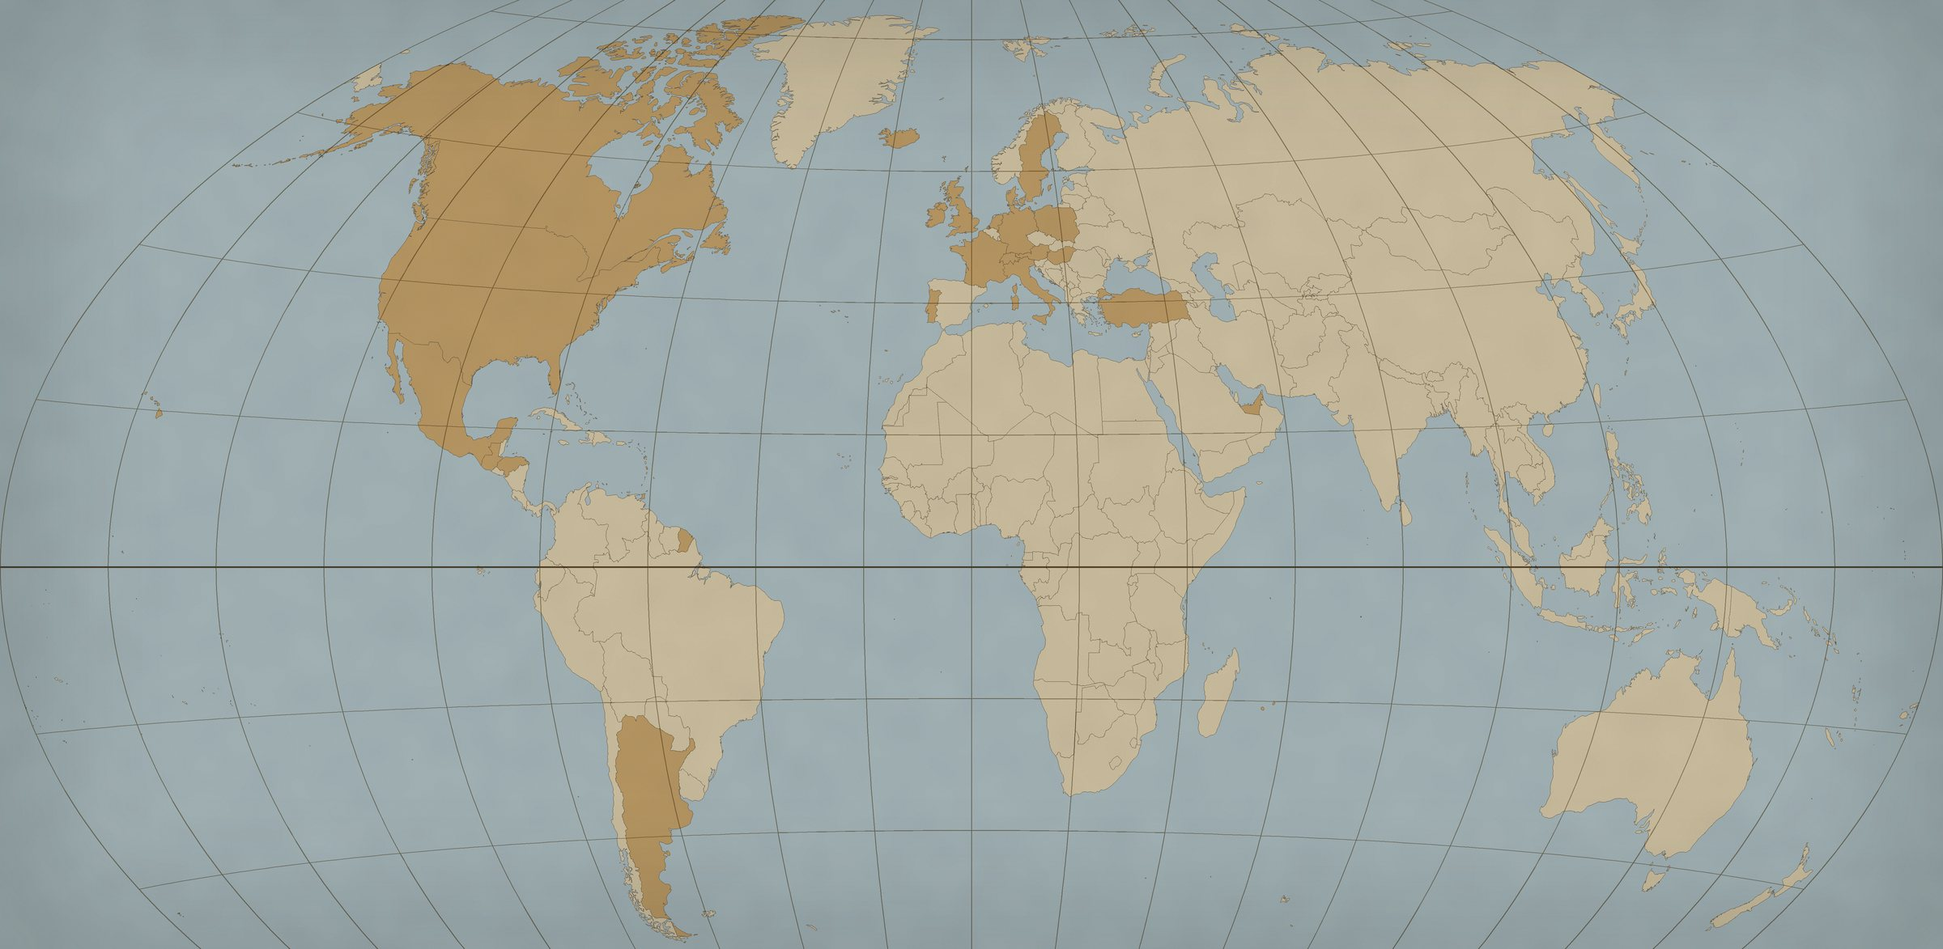
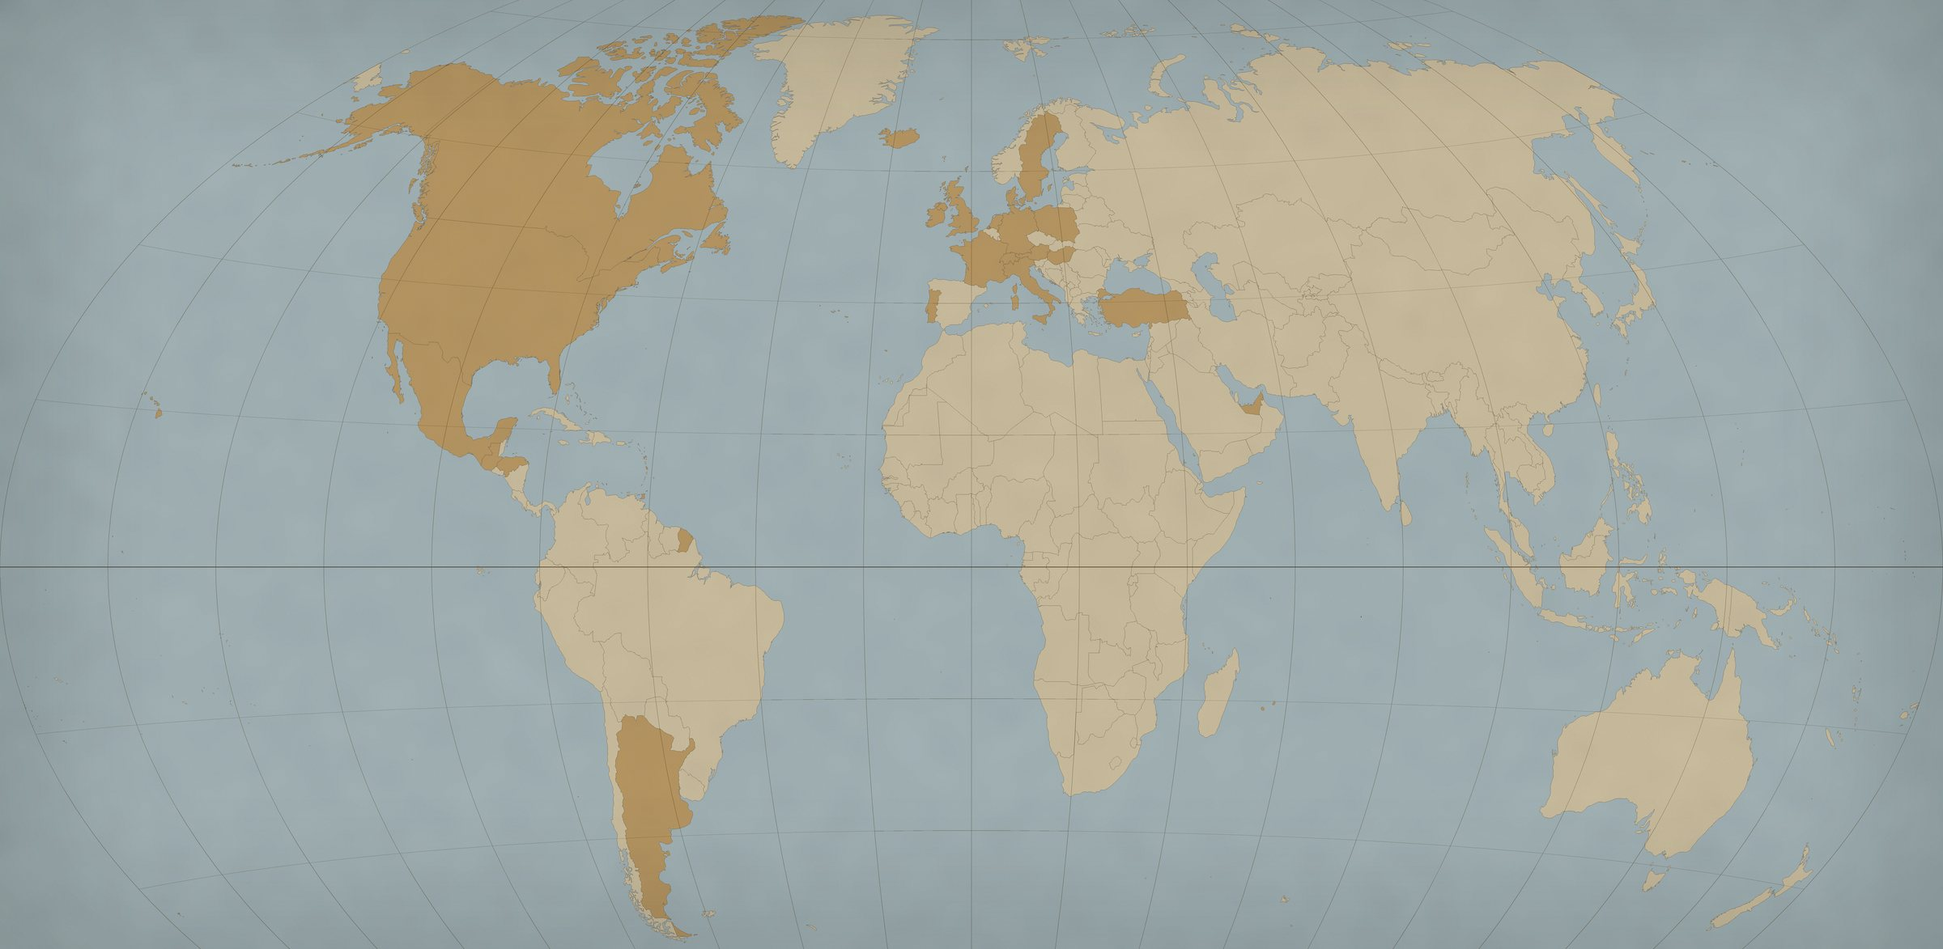
Sharpen the map at zoom, and name the country on the pin
Zooming was mushy because the sheet is 2400px wide and shown at about
1146 CSS px, so anything past roughly 2x was magnified JPEG rather than map.

There is now a 6000px sheet, fetched only when the reader first zooms past
1.2x and swapped in once it has decoded. The page still opens on the small
sheet, so anyone who only looks at the world view never pays the 713KB.
srcset has to be removed at swap time or it outranks src and the swap does
nothing. MAX zoom drops from 7 to 5, which is roughly where the detail sheet
stops having more to give.

Geometry is now drawn once at 6000px and downsampled to 2400 and 1200, with
the paper grain applied separately at each size so it is not smoothed away.
Pin positions shift by under 0.03% of the sheet, well inside a pixel.

Pins carry the country name, shown on hover, on keyboard focus, and on the
selected pin, which is how it works on a phone where there is no hover. The
name goes in via textContent, not innerHTML, so "Trinidad & Tobago" is not
an HTML entity waiting to happen. A labelled pin lifts above its neighbours
or the tag gets sliced by the pin next to it.

Also added all three sheets to stamp-assets.py. They are regenerated every
time a country is added, so without a content hash a cached sheet would show
last week's tints.

diff --git a/js/travel-map.js b/js/travel-map.js
@@ -12,41 +12,44 @@
 
     // <countries>  regenerate with: python3 bin/build-travel-map.py
     var COUNTRIES = [
-  {"code": "US", "name": "United States", "region": "Americas", "x": 28.004, "y": 34.129, "cities": 81, "regions": 18, "top": ["Hillsborough County", "North Franklin Township", "Robinson Township", "Charlotte", "Orange County", "Lakeland"]},
-  {"code": "GT", "name": "Guatemala", "region": "Americas", "x": 25.072, "y": 48.995, "cities": 8, "regions": 0, "top": ["San Andrés Semetabaj", "Mixco", "Santa Cruz Muluá", "San Juan Bautista", "Zaragoza", "Fray Bartolomé de las Casas"]},
-  {"code": "CA", "name": "Canada", "region": "Americas", "x": 33.254, "y": 23.987, "cities": 5, "regions": 0, "top": ["Victoria", "Mississauga", "Rivière-Koksoak", "Bridgewater"]},
-  {"code": "HN", "name": "Honduras", "region": "Americas", "x": 25.972, "y": 48.675, "cities": 4, "regions": 0, "top": ["El Progreso", "Santa Cruz de Yojoa", "El Rosario", "La Lima"]},
-  {"code": "MX", "name": "Mexico", "region": "Americas", "x": 23.976, "y": 46.407, "cities": 3, "regions": 0, "top": ["San Cristóbal", "Tuxtla Gutiérrez", "Ciudad de México"]},
-  {"code": "AR", "name": "Argentina", "region": "Americas", "x": 35.061, "y": 84.229, "cities": 2, "regions": 0, "top": ["Buenos Aires", "Mar del Plata"]},
-  {"code": "TT", "name": "Trinidad & Tobago", "region": "Americas", "x": 33.049, "y": 52.346, "cities": 2, "regions": 0, "top": []},
-  {"code": "IT", "name": "Italy", "region": "Europe", "x": 52.865, "y": 30.473, "cities": 13, "regions": 0, "top": ["San Felice sul Panaro", "Torino", "Bologna", "Roma", "Lucca", "Venezia"]},
-  {"code": "AT", "name": "Austria", "region": "Europe", "x": 53.329, "y": 26.483, "cities": 10, "regions": 0, "top": ["Eben am Achensee", "Wien", "Hallwang", "Parndorf/Pandrof", "Michelhausen", "Asten"]},
-  {"code": "DE", "name": "Germany", "region": "Europe", "x": 52.429, "y": 25.737, "cities": 10, "regions": 0, "top": ["Oberding", "Frankfurt am Main", "Bad Wiessee", "Teisendorf", "Prien am Chiemsee", "Saulheim"]},
-  {"code": "HU", "name": "Hungary", "region": "Europe", "x": 54.313, "y": 26.727, "cities": 10, "regions": 0, "top": ["Budapest", "Balatonfüred", "Sárszentmihály", "Velence", "Komárom", "Monori járás"]},
-  {"code": "SE", "name": "Sweden", "region": "Europe", "x": 53.39, "y": 19.597, "cities": 10, "regions": 0, "top": ["Stockholm", "Sigtuna kommun", "Malmö", "Norrköping", "Linköping", "Hässleholms kommun"]},
-  {"code": "GB", "name": "United Kingdom", "region": "Europe", "x": 49.298, "y": 22.576, "cities": 9, "regions": 0, "top": ["Greater London", "Belfast", "Reading", "Ayrshire", "Mid and East Antrim District", "South Ayrshire"]},
-  {"code": "FR", "name": "France", "region": "Europe", "x": 50.533, "y": 25.123, "cities": 7, "regions": 0, "top": ["Paris", "Tillé", "Seclin", "Peuplingues", "Bornel", "Vémars"]},
-  {"code": "DK", "name": "Denmark", "region": "Europe", "x": 52.748, "y": 20.952, "cities": 3, "regions": 0, "top": ["København", "Hillerød Kommune", "Køge Kommune"]},
-  {"code": "NL", "name": "Netherlands", "region": "Europe", "x": 51.086, "y": 23.371, "cities": 3, "regions": 0, "top": ["Hoofddorp", "Amsterdam", "Oosthuizen"]},
-  {"code": "TR", "name": "Turkey", "region": "Europe", "x": 57.179, "y": 31.059, "cities": 3, "regions": 0, "top": ["Arnavutköy", "Pendik", "Istanbul"]},
-  {"code": "CH", "name": "Switzerland", "region": "Europe", "x": 52.144, "y": 27.762, "cities": 2, "regions": 0, "top": ["Lugano", "Ascona"]},
-  {"code": "IS", "name": "Iceland", "region": "Europe", "x": 45.469, "y": 15.202, "cities": 1, "regions": 0, "top": ["Suðurnesjabær"]},
-  {"code": "IE", "name": "Ireland", "region": "Europe", "x": 48.588, "y": 22.667, "cities": 1, "regions": 0, "top": ["Dublin"]},
-  {"code": "MC", "name": "Monaco", "region": "Europe", "x": 51.807, "y": 29.34, "cities": 1, "regions": 0, "top": ["Monte Carlo"]},
-  {"code": "PL", "name": "Poland", "region": "Europe", "x": 54.784, "y": 23.375, "cities": 1, "regions": 0, "top": ["Warsaw"]},
-  {"code": "PT", "name": "Portugal", "region": "Europe", "x": 47.708, "y": 32.786, "cities": 1, "regions": 0, "top": ["Lisboa"]},
-  {"code": "AE", "name": "United Arab Emirates", "region": "Middle East", "x": 64.717, "y": 41.889, "cities": 1, "regions": 0, "top": ["Dubai"]},
-  {"code": "MU", "name": "Mauritius", "region": "Africa", "x": 65.557, "y": 74.102, "cities": 0, "regions": 0, "top": []}
+  {"code": "US", "name": "United States", "region": "Americas", "x": 28.004, "y": 34.119, "cities": 81, "regions": 18, "top": ["Hillsborough County", "North Franklin Township", "Robinson Township", "Charlotte", "Orange County", "Lakeland"]},
+  {"code": "GT", "name": "Guatemala", "region": "Americas", "x": 25.072, "y": 48.981, "cities": 8, "regions": 0, "top": ["San Andrés Semetabaj", "Mixco", "Santa Cruz Muluá", "San Juan Bautista", "Zaragoza", "Fray Bartolomé de las Casas"]},
+  {"code": "CA", "name": "Canada", "region": "Americas", "x": 33.254, "y": 23.98, "cities": 5, "regions": 0, "top": ["Victoria", "Mississauga", "Rivière-Koksoak", "Bridgewater"]},
+  {"code": "HN", "name": "Honduras", "region": "Americas", "x": 25.972, "y": 48.661, "cities": 4, "regions": 0, "top": ["El Progreso", "Santa Cruz de Yojoa", "El Rosario", "La Lima"]},
+  {"code": "MX", "name": "Mexico", "region": "Americas", "x": 23.976, "y": 46.394, "cities": 3, "regions": 0, "top": ["San Cristóbal", "Tuxtla Gutiérrez", "Ciudad de México"]},
+  {"code": "AR", "name": "Argentina", "region": "Americas", "x": 35.061, "y": 84.205, "cities": 2, "regions": 0, "top": ["Buenos Aires", "Mar del Plata"]},
+  {"code": "TT", "name": "Trinidad & Tobago", "region": "Americas", "x": 33.049, "y": 52.331, "cities": 2, "regions": 0, "top": []},
+  {"code": "IT", "name": "Italy", "region": "Europe", "x": 52.865, "y": 30.464, "cities": 13, "regions": 0, "top": ["San Felice sul Panaro", "Torino", "Bologna", "Roma", "Lucca", "Venezia"]},
+  {"code": "AT", "name": "Austria", "region": "Europe", "x": 53.329, "y": 26.475, "cities": 10, "regions": 0, "top": ["Eben am Achensee", "Wien", "Hallwang", "Parndorf/Pandrof", "Michelhausen", "Asten"]},
+  {"code": "DE", "name": "Germany", "region": "Europe", "x": 52.429, "y": 25.73, "cities": 10, "regions": 0, "top": ["Oberding", "Frankfurt am Main", "Bad Wiessee", "Teisendorf", "Prien am Chiemsee", "Saulheim"]},
+  {"code": "HU", "name": "Hungary", "region": "Europe", "x": 54.313, "y": 26.719, "cities": 10, "regions": 0, "top": ["Budapest", "Balatonfüred", "Sárszentmihály", "Velence", "Komárom", "Monori járás"]},
+  {"code": "SE", "name": "Sweden", "region": "Europe", "x": 53.39, "y": 19.591, "cities": 10, "regions": 0, "top": ["Stockholm", "Sigtuna kommun", "Malmö", "Norrköping", "Linköping", "Hässleholms kommun"]},
+  {"code": "GB", "name": "United Kingdom", "region": "Europe", "x": 49.298, "y": 22.569, "cities": 9, "regions": 0, "top": ["Greater London", "Belfast", "Reading", "Ayrshire", "Mid and East Antrim District", "South Ayrshire"]},
+  {"code": "FR", "name": "France", "region": "Europe", "x": 50.533, "y": 25.115, "cities": 7, "regions": 0, "top": ["Paris", "Tillé", "Seclin", "Peuplingues", "Bornel", "Vémars"]},
+  {"code": "DK", "name": "Denmark", "region": "Europe", "x": 52.748, "y": 20.945, "cities": 3, "regions": 0, "top": ["København", "Hillerød Kommune", "Køge Kommune"]},
+  {"code": "NL", "name": "Netherlands", "region": "Europe", "x": 51.086, "y": 23.364, "cities": 3, "regions": 0, "top": ["Hoofddorp", "Amsterdam", "Oosthuizen"]},
+  {"code": "TR", "name": "Turkey", "region": "Europe", "x": 57.179, "y": 31.049, "cities": 3, "regions": 0, "top": ["Arnavutköy", "Pendik", "Istanbul"]},
+  {"code": "CH", "name": "Switzerland", "region": "Europe", "x": 52.144, "y": 27.754, "cities": 2, "regions": 0, "top": ["Lugano", "Ascona"]},
+  {"code": "IS", "name": "Iceland", "region": "Europe", "x": 45.469, "y": 15.197, "cities": 1, "regions": 0, "top": ["Suðurnesjabær"]},
+  {"code": "IE", "name": "Ireland", "region": "Europe", "x": 48.588, "y": 22.66, "cities": 1, "regions": 0, "top": ["Dublin"]},
+  {"code": "MC", "name": "Monaco", "region": "Europe", "x": 51.807, "y": 29.331, "cities": 1, "regions": 0, "top": ["Monte Carlo"]},
+  {"code": "PL", "name": "Poland", "region": "Europe", "x": 54.784, "y": 23.368, "cities": 1, "regions": 0, "top": ["Warsaw"]},
+  {"code": "PT", "name": "Portugal", "region": "Europe", "x": 47.708, "y": 32.776, "cities": 1, "regions": 0, "top": ["Lisboa"]},
+  {"code": "AE", "name": "United Arab Emirates", "region": "Middle East", "x": 64.717, "y": 41.877, "cities": 1, "regions": 0, "top": ["Dubai"]},
+  {"code": "MU", "name": "Mauritius", "region": "Africa", "x": 65.557, "y": 74.081, "cities": 0, "regions": 0, "top": []}
 ];
     // </countries>
 
-    var MIN = 1, MAX = 7;
+    // MAX is capped at what the detail sheet can actually resolve; going
+    // further only magnifies JPEG, it does not add map.
+    var MIN = 1, MAX = 5;
     var vp = document.getElementById('wm-viewport');
     if (!vp) return;
     var canvas = document.getElementById('wm-canvas');
     var panel  = document.getElementById('wm-panel');
     var list   = document.getElementById('wm-list');
     var reset  = document.getElementById('wm-reset');
+    var sheet  = document.getElementById('wm-sheet');
 
     // baseScale is the resting zoom: 1 on a desktop, but on a phone the frame
     // is taller than the sheet, so the map rests zoomed in far enough to fill
@@ -65,6 +68,10 @@
         b.style.top  = c.y + '%';
         b.setAttribute('aria-label', c.name);
         b.innerHTML = '<span class="wm-pin-needle"></span><span class="wm-pin-head"></span>';
+        var tag = document.createElement('span');
+        tag.className = 'wm-pin-label';
+        tag.textContent = c.name;      // textContent, so "Trinidad & Tobago" is safe
+        b.appendChild(tag);
         b.addEventListener('click', function (e) { e.stopPropagation(); select(c, true); });
         canvas.appendChild(b);
         pinEls[c.code] = b;
@@ -91,6 +98,27 @@
         list.appendChild(row);
     });
 
+    // ── detail sheet ──
+    // The page opens on a 2400px sheet, which is plenty at resting zoom and
+    // costs ~190KB. Zooming past that turns it to mush, so the first time the
+    // reader zooms in, fetch the 6000px version and swap it in once it has
+    // decoded. Nobody who only looks at the world view ever pays for it.
+    var detailSrc = sheet.getAttribute('data-detail');
+    var detailAsked = false;
+
+    function loadDetail() {
+        if (detailAsked || !detailSrc) return;
+        detailAsked = true;
+        var pre = new Image();
+        pre.onload = function () {
+            // srcset outranks src, so it has to go or the swap does nothing
+            sheet.removeAttribute('srcset');
+            sheet.removeAttribute('sizes');
+            sheet.src = detailSrc;
+        };
+        pre.src = detailSrc;
+    }
+
     // ── transform ──
     function clamp(v, lo, hi) { return v < lo ? lo : v > hi ? hi : v; }
 
@@ -108,6 +136,7 @@
         // scale. At rest touch-action stays pan-y so a thumb dragged up the
         // screen scrolls the page instead of being swallowed by the map.
         vp.classList.toggle('is-zoomed', scale > baseScale * 1.01);
+        if (scale > baseScale * 1.2) loadDetail();
     }
 
     function pannable() {

diff --git a/travel-map.html b/travel-map.html
@@ -21,7 +21,7 @@
     <link rel="preconnect" href="https://fonts.gstatic.com" crossorigin>
     <link rel="preload" as="style" href="https://fonts.googleapis.com/css2?family=Lora:wght@400;500;600;700&family=Open+Sans:wght@300;400;500;600;700&display=swap" onload="this.onload=null;this.rel='stylesheet'">
     <noscript><link rel="stylesheet" href="https://fonts.googleapis.com/css2?family=Lora:wght@400;500;600;700&family=Open+Sans:wght@300;400;500;600;700&display=swap"></noscript>
-    <link rel="stylesheet" href="css/style.css?v=16f787d0bd">
+    <link rel="stylesheet" href="css/style.css?v=86a2e0f0d5">
     <link rel="icon" href="/favicon.ico" type="image/x-icon">
 </head>
 <body>
@@ -69,8 +69,9 @@
             <div class="wm-viewport" id="wm-viewport">
                 <div class="wm-canvas" id="wm-canvas">
                     <img class="wm-sheet" id="wm-sheet"
-                         src="assets/travel/world-map-1200.jpg"
-                         srcset="assets/travel/world-map-1200.jpg 1200w, assets/travel/world-map-2400.jpg 2400w"
+                         src="assets/travel/world-map-1200.jpg?v=a72eafc5f5"
+                         data-detail="assets/travel/world-map-6000.jpg?v=38ff10aa5c"
+                         srcset="assets/travel/world-map-1200.jpg?v=a72eafc5f5 1200w, assets/travel/world-map-2400.jpg?v=3688f706c5 2400w"
                          sizes="(max-width: 1220px) 100vw, 1146px"
                          width="2400" height="1173"
                          alt="An antique world map with a push pin in each of the 25 countries Alfano Ministries has carried the Gospel to">
@@ -149,7 +150,7 @@
     </footer>
 
     <script src="js/main.js?v=289c1d07eb" defer></script>
-    <script src="js/travel-map.js?v=2818a63c81" defer></script>
+    <script src="js/travel-map.js?v=d1cc5465d3" defer></script>
     <!-- GHL Chat Widget -->
     <script src="https://widgets.leadconnectorhq.com/loader.js" data-resources-url="https://widgets.leadconnectorhq.com/chat-widget/loader.js" data-widget-id="6a05e884f127bb1bb0a44a06" data-source="WEB_USER"></script>
 </body>

diff --git a/css/style.css b/css/style.css
@@ -3035,6 +3035,37 @@ chat-widget {
 
 .wm-pin:focus-visible { outline: 2px solid var(--gold); outline-offset: 2px; }
 
+/* the country name, on hover and on the selected pin */
+.wm-pin-label {
+    position: absolute;
+    left: 50%;
+    bottom: 30px;
+    transform: translateX(-50%);
+    padding: 3px 9px;
+    border-radius: 5px;
+    background: rgba(21, 44, 73, 0.95);
+    color: var(--cream);
+    font-family: inherit;
+    font-size: 11px;
+    font-weight: 600;
+    line-height: 1.4;
+    letter-spacing: 0.02em;
+    white-space: nowrap;
+    opacity: 0;
+    pointer-events: none;
+    box-shadow: 0 2px 6px rgba(0, 0, 0, 0.4);
+    transition: opacity 0.14s ease;
+}
+
+.wm-pin:hover .wm-pin-label,
+.wm-pin:focus-visible .wm-pin-label,
+.wm-pin.is-active .wm-pin-label { opacity: 1; }
+
+/* a labelled pin has to sit above its neighbours or the tag is cut in half */
+.wm-pin:hover,
+.wm-pin:focus-visible,
+.wm-pin.is-active { z-index: 5; }
+
 /* ── controls ── */
 .wm-controls {
     position: absolute;

diff --git a/listen-go.html b/listen-go.html
@@ -18,7 +18,7 @@
     <link rel="preconnect" href="https://fonts.gstatic.com" crossorigin>
     <link rel="preload" as="style" href="https://fonts.googleapis.com/css2?family=Lora:wght@400;500;600;700&amp;family=Open+Sans:wght@300;400;500;600;700&amp;display=swap" onload="this.onload=null;this.rel='stylesheet'">
     <noscript><link rel="stylesheet" href="https://fonts.googleapis.com/css2?family=Lora:wght@400;500;600;700&amp;family=Open+Sans:wght@300;400;500;600;700&amp;display=swap"></noscript>
-    <link rel="stylesheet" href="css/style.css?v=16f787d0bd">
+    <link rel="stylesheet" href="css/style.css?v=86a2e0f0d5">
     <link rel="icon" href="/favicon.ico" type="image/x-icon">
     <style>
         .listen-wrap { max-width: 780px; margin: 0 auto; text-align: center; }

diff --git a/listen-wiser.html b/listen-wiser.html
@@ -18,7 +18,7 @@
     <link rel="preconnect" href="https://fonts.gstatic.com" crossorigin>
     <link rel="preload" as="style" href="https://fonts.googleapis.com/css2?family=Lora:wght@400;500;600;700&amp;family=Open+Sans:wght@300;400;500;600;700&amp;display=swap" onload="this.onload=null;this.rel='stylesheet'">
     <noscript><link rel="stylesheet" href="https://fonts.googleapis.com/css2?family=Lora:wght@400;500;600;700&amp;family=Open+Sans:wght@300;400;500;600;700&amp;display=swap"></noscript>
-    <link rel="stylesheet" href="css/style.css?v=16f787d0bd">
+    <link rel="stylesheet" href="css/style.css?v=86a2e0f0d5">
     <link rel="icon" href="/favicon.ico" type="image/x-icon">
     <style>
         .listen-wrap { max-width: 780px; margin: 0 auto; text-align: center; }

diff --git a/listen.html b/listen.html
@@ -18,7 +18,7 @@
     <link rel="preconnect" href="https://fonts.gstatic.com" crossorigin>
     <link rel="preload" as="style" href="https://fonts.googleapis.com/css2?family=Lora:wght@400;500;600;700&amp;family=Open+Sans:wght@300;400;500;600;700&amp;display=swap" onload="this.onload=null;this.rel='stylesheet'">
     <noscript><link rel="stylesheet" href="https://fonts.googleapis.com/css2?family=Lora:wght@400;500;600;700&amp;family=Open+Sans:wght@300;400;500;600;700&amp;display=swap"></noscript>
-    <link rel="stylesheet" href="css/style.css?v=16f787d0bd">
+    <link rel="stylesheet" href="css/style.css?v=86a2e0f0d5">
     <link rel="icon" href="/favicon.ico" type="image/x-icon">
     <style>
         .listen-wrap { max-width: 780px; margin: 0 auto; text-align: center; }

diff --git a/library.html b/library.html
@@ -19,7 +19,7 @@
     <link rel="preconnect" href="https://fonts.gstatic.com" crossorigin>
     <link rel="preload" as="style" href="https://fonts.googleapis.com/css2?family=Lora:wght@400;500;600;700&amp;family=Open+Sans:wght@300;400;500;600;700&amp;display=swap" onload="this.onload=null;this.rel='stylesheet'">
     <noscript><link rel="stylesheet" href="https://fonts.googleapis.com/css2?family=Lora:wght@400;500;600;700&amp;family=Open+Sans:wght@300;400;500;600;700&amp;display=swap"></noscript>
-    <link rel="stylesheet" href="css/style.css?v=16f787d0bd">
+    <link rel="stylesheet" href="css/style.css?v=86a2e0f0d5">
     <link rel="icon" href="/favicon.ico" type="image/x-icon">
     <style>
         .library-wrap { max-width: 900px; margin: 0 auto; }

diff --git a/index.html b/index.html
@@ -21,7 +21,7 @@
     <link rel="preconnect" href="https://fonts.gstatic.com" crossorigin>
     <link rel="preload" as="style" href="https://fonts.googleapis.com/css2?family=Lora:wght@400;500;600;700&family=Open+Sans:wght@300;400;500;600;700&display=swap" onload="this.onload=null;this.rel='stylesheet'">
     <noscript><link rel="stylesheet" href="https://fonts.googleapis.com/css2?family=Lora:wght@400;500;600;700&family=Open+Sans:wght@300;400;500;600;700&display=swap"></noscript>
-    <link rel="stylesheet" href="css/style.css?v=16f787d0bd">
+    <link rel="stylesheet" href="css/style.css?v=86a2e0f0d5">
     <link rel="icon" href="/favicon.ico" type="image/x-icon">
     <script type="application/ld+json">
     {

diff --git a/store.html b/store.html
@@ -21,7 +21,7 @@
     <link rel="preconnect" href="https://fonts.gstatic.com" crossorigin>
     <link rel="preload" as="style" href="https://fonts.googleapis.com/css2?family=Lora:wght@400;500;600;700&family=Open+Sans:wght@300;400;500;600;700&display=swap" onload="this.onload=null;this.rel='stylesheet'">
     <noscript><link rel="stylesheet" href="https://fonts.googleapis.com/css2?family=Lora:wght@400;500;600;700&family=Open+Sans:wght@300;400;500;600;700&display=swap"></noscript>
-    <link rel="stylesheet" href="css/style.css?v=16f787d0bd">
+    <link rel="stylesheet" href="css/style.css?v=86a2e0f0d5">
     <link rel="icon" href="/favicon.ico" type="image/x-icon">
     <style>
         .store-book {

diff --git a/7k-revelation.html b/7k-revelation.html
@@ -21,7 +21,7 @@
     <link rel="preconnect" href="https://fonts.gstatic.com" crossorigin>
     <link rel="preload" as="style" href="https://fonts.googleapis.com/css2?family=Lora:wght@400;500;600;700&family=Open+Sans:wght@300;400;500;600;700&display=swap" onload="this.onload=null;this.rel='stylesheet'">
     <noscript><link rel="stylesheet" href="https://fonts.googleapis.com/css2?family=Lora:wght@400;500;600;700&family=Open+Sans:wght@300;400;500;600;700&display=swap"></noscript>
-    <link rel="stylesheet" href="css/style.css?v=16f787d0bd">
+    <link rel="stylesheet" href="css/style.css?v=86a2e0f0d5">
     <link rel="icon" href="/favicon.ico" type="image/x-icon">
 </head>
 <body>

diff --git a/about.html b/about.html
@@ -21,7 +21,7 @@
     <link rel="preconnect" href="https://fonts.gstatic.com" crossorigin>
     <link rel="preload" as="style" href="https://fonts.googleapis.com/css2?family=Lora:wght@400;500;600;700&family=Open+Sans:wght@300;400;500;600;700&display=swap" onload="this.onload=null;this.rel='stylesheet'">
     <noscript><link rel="stylesheet" href="https://fonts.googleapis.com/css2?family=Lora:wght@400;500;600;700&family=Open+Sans:wght@300;400;500;600;700&display=swap"></noscript>
-    <link rel="stylesheet" href="css/style.css?v=16f787d0bd">
+    <link rel="stylesheet" href="css/style.css?v=86a2e0f0d5">
     <link rel="icon" href="/favicon.ico" type="image/x-icon">
 </head>
 <body>

diff --git a/contact.html b/contact.html
@@ -21,7 +21,7 @@
     <link rel="preconnect" href="https://fonts.gstatic.com" crossorigin>
     <link rel="preload" as="style" href="https://fonts.googleapis.com/css2?family=Lora:wght@400;500;600;700&family=Open+Sans:wght@300;400;500;600;700&display=swap" onload="this.onload=null;this.rel='stylesheet'">
     <noscript><link rel="stylesheet" href="https://fonts.googleapis.com/css2?family=Lora:wght@400;500;600;700&family=Open+Sans:wght@300;400;500;600;700&display=swap"></noscript>
-    <link rel="stylesheet" href="css/style.css?v=16f787d0bd">
+    <link rel="stylesheet" href="css/style.css?v=86a2e0f0d5">
     <link rel="icon" href="/favicon.ico" type="image/x-icon">
 </head>
 <body>
